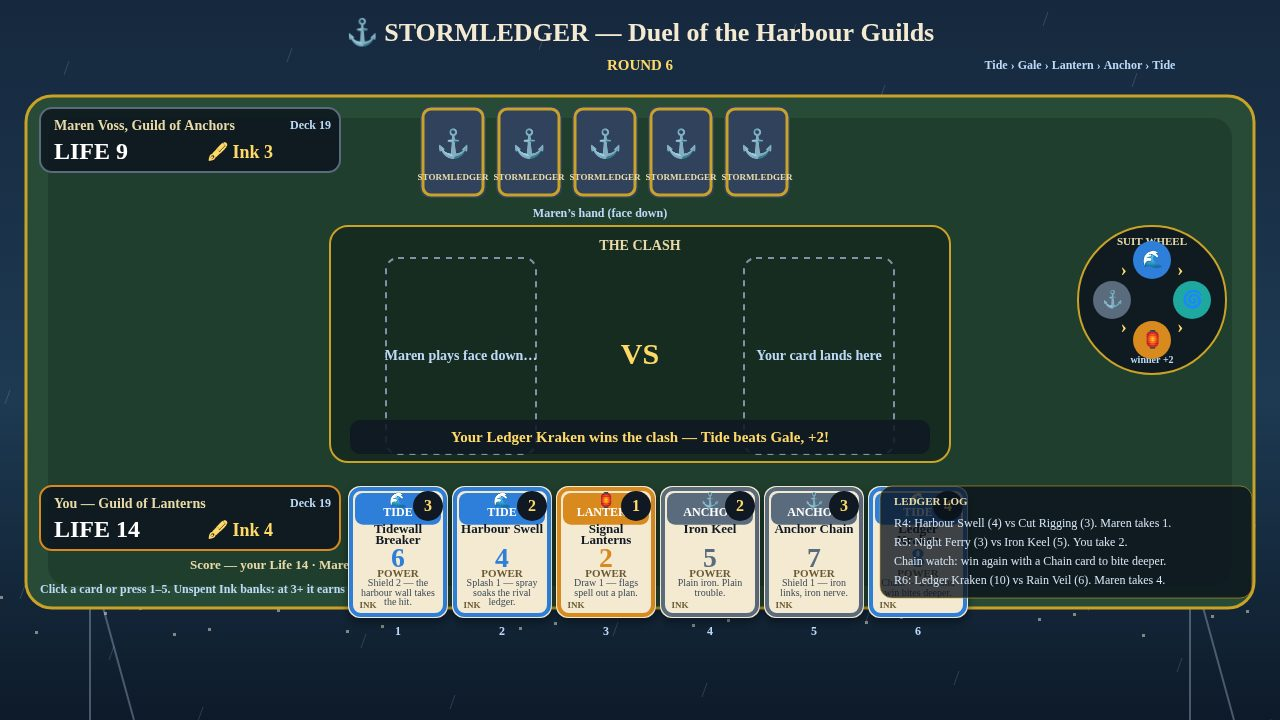
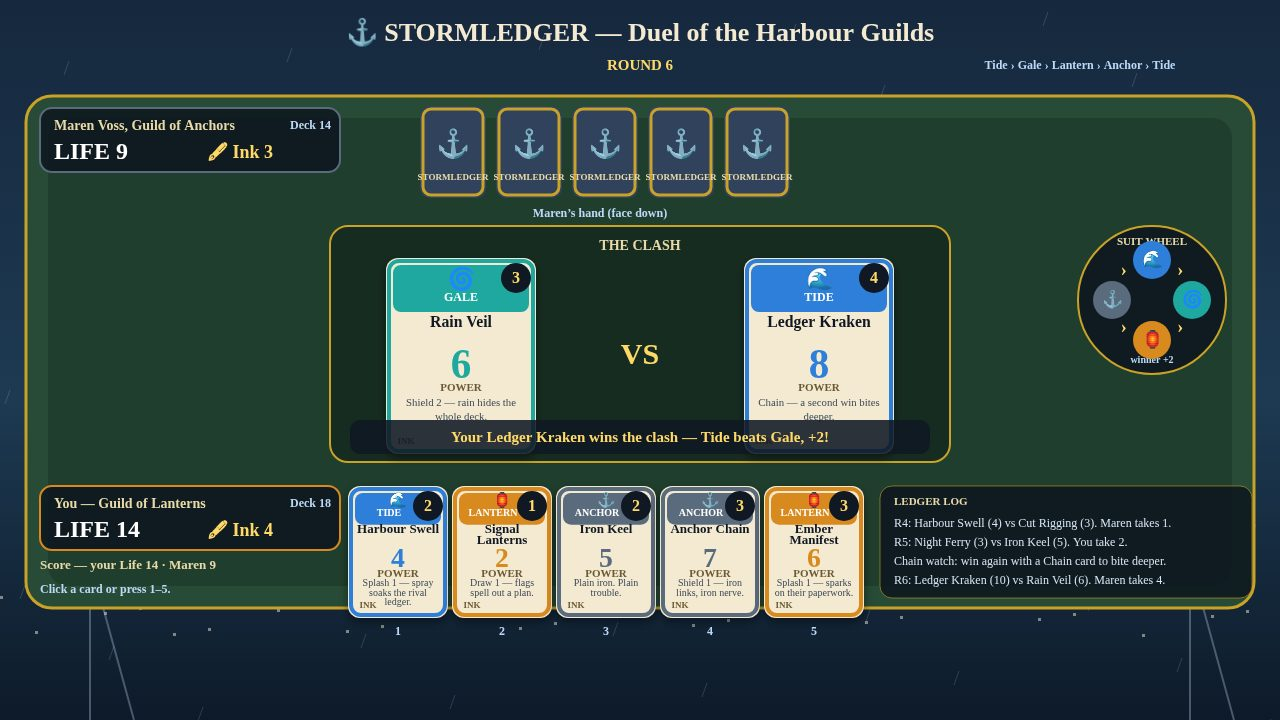
Polish: stage the screenshot clash properly and sharpen the table
Screenshot staging now funds the staged clash and keeps both hands at
five, so the table shot shows a real revealed pair; win/loss screens
show the final clash cards; damage and mending clamp together in
state.js; hand layout, score line and small-card suit names no longer
collide with the log or the cost badge.

Changed region(s): [[0.0312, 0.6722, 0.7812, 0.8861], [0.5625, 0.3361, 0.7188, 0.6417], [0.2812, 0.3361, 0.4375, 0.6417]]

diff --git a/game/src/render.js b/game/src/render.js
@@ -80,7 +80,10 @@ export function drawCardFace(ctx, card, x, y, w, h, opts = {}) {
   // header band in the suit colour
   ctx.fillStyle = suit.colour; roundRect(ctx, x + 7, y + 7, w - 14, h * 0.24, 8); ctx.fill();
   text(ctx, suit.glyph, x + w / 2, y + h * 0.115, h * 0.11, '#ffffff');
-  text(ctx, suit.name.toUpperCase(), x + w / 2, y + h * 0.205, 12, '#ffffff');
+  // Narrow cards shrink the suit name and shift it left, clear of the cost badge.
+  const suitSize = w < 120 ? 10 : 12;
+  const suitX = x + w / 2 - (w < 120 ? 9 : 0);
+  text(ctx, suit.name.toUpperCase(), suitX, y + h * 0.205, suitSize, '#ffffff');
   // name
   ctx.font = `bold ${Math.max(13, w * 0.105)}px Georgia, serif`;
   const nameLines = wrapLines(ctx, card.name, w - 16).slice(0, 2);
@@ -177,8 +180,8 @@ export function drawTable(ctx, state, hoverIndex) {
   text(ctx, state.banner, 640, 438, 15, '#ffd968');
 
   lifePanel(ctx, 40, 486, PLAYER_NAME, state.player.life, state.player.ink, state.player.deck.length, '#d98a1f');
-  text(ctx, `Score — your Life ${state.player.life} · Maren ${state.rival.life}`, 190, 566, 13, '#e8d9a8', 'left');
-  text(ctx, 'Click a card or press 1–5. Unspent Ink banks: at 3+ it earns +1.', 40, 590, 12, '#bcd9f7', 'left');
+  text(ctx, `Score — your Life ${state.player.life} · Maren ${state.rival.life}`, 40, 566, 13, '#e8d9a8', 'left');
+  text(ctx, 'Click a card or press 1–5.', 40, 590, 12, '#bcd9f7', 'left');
 
   // player hand, face up
   state.player.hand.forEach((card, i) => {

diff --git a/game/src/shots.js b/game/src/shots.js
@@ -28,6 +28,10 @@ export function stageShot(name, state) {
     // Set a rich, readable mid-duel frame: round 6, you ahead on Life.
     giveCard(state, 'player', 'tide-kraken');
     giveCard(state, 'rival', 'gale-veil');
+    // Keep both hands at five and make the staged pair affordable.
+    state.player.hand.splice(0, state.player.hand.length - 5);
+    state.player.ink = 6;
+    state.rival.ink = 6;
     // One more clash with a known pair at the centre of the table.
     const pIdx = state.player.hand.findIndex((c) => c.id === 'tide-kraken');
     const rIdx = state.rival.hand.findIndex((c) => c.id === 'gale-veil');
@@ -60,6 +64,9 @@ export function stageShot(name, state) {
   if (name === 'win' || name === 'loss') {
     startDuel(state);
     playScripted(state, 'anchor-verdict');
+    // The last clash of the duel, shown beside the result panel.
+    state.playerCard = { ...cardById('tide-kraken'), uid: 'final#p' };
+    state.rivalCard = { ...cardById('anchor-chain'), uid: 'final#r' };
     state.round = 11;
     if (name === 'win') { state.player.life = 12; state.rival.life = 0; }
     else { state.player.life = 0; state.rival.life = 7; }
